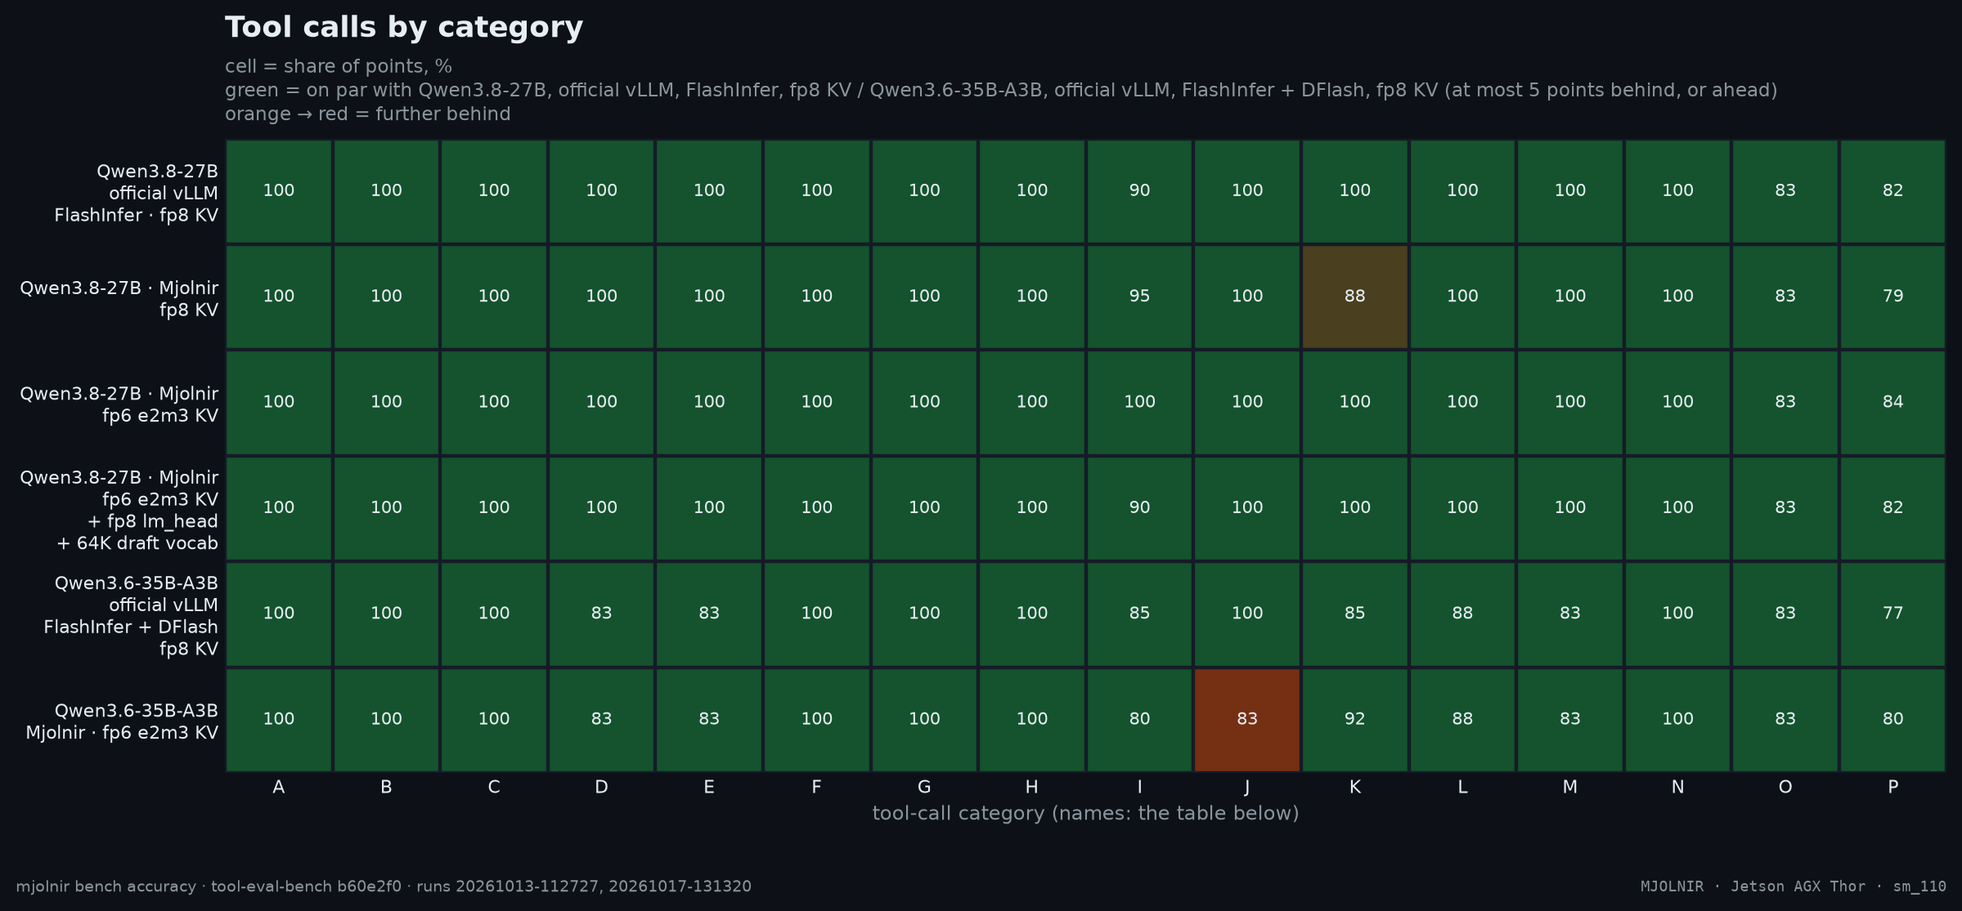
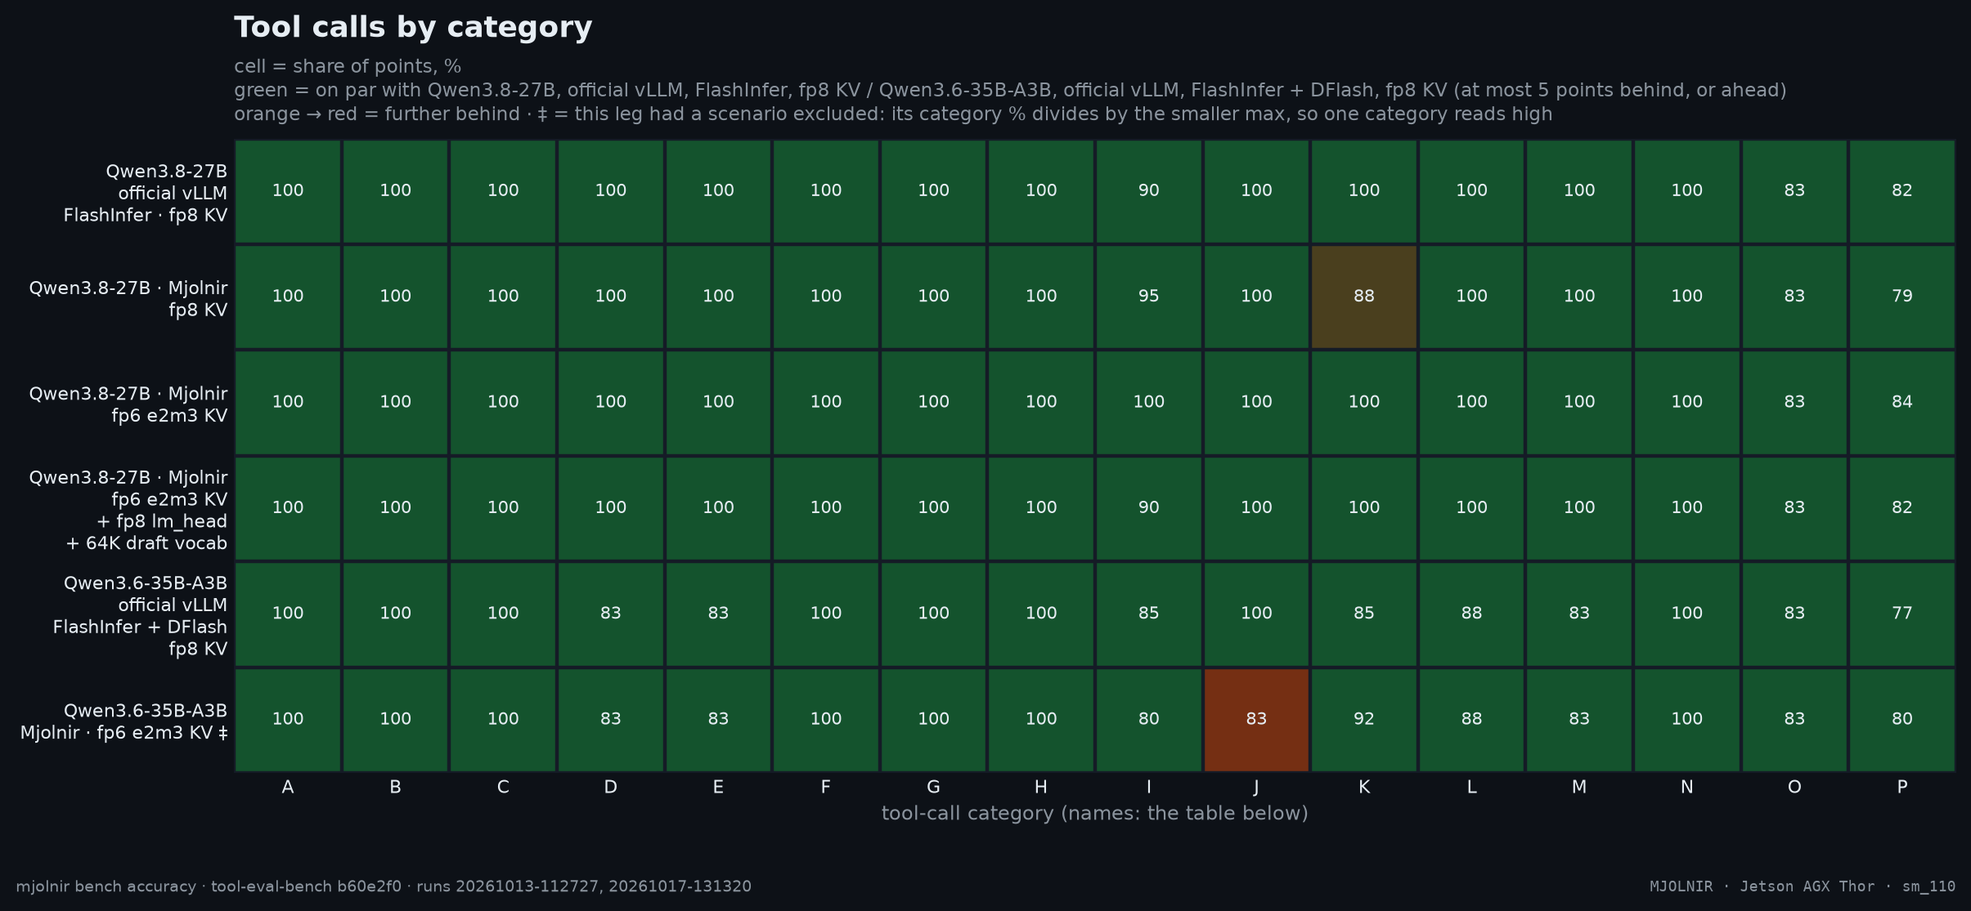
review 3 fixes: categories, delta guards, trials, compare defaults
- accuracy.delta: rescales only when a leg actually excluded scenarios
  (completion below 100%). Different maxes at full completion mean
  different scenario sets (another run's arguments, a subset): no delta,
  where it used to print a large bogus correction.
- summarize_db keeps every trial's earned/max and the worst trial's
  completion, so --trials rescales each trial on the full max; an
  exclusion in any trial counts, not only in the last one.
- Categories: a leg with an excluded scenario is marked ‡ in the heatmap
  and the page table, with a note that one category divides by the
  smaller max (per-category points are not in accuracy.json).
- Findings tally counts a scenario missing on one leg as zero, as the ‡
  delta does (committed runs record TC-45 as 0.0, so the page is unchanged).
- One accuracy.any_excluded / leg_excluded check and one set of legends
  for the page, the charts and the end-of-run table.
- bench compare: without --config, a model with no DEFAULT_QUANT runs pairs
  its newest Mjolnir config; the bench e2e hint carries --model.
- charts: stdlib imports in one block.

diff --git a/src/mjolnir-cli/mjolnir_cli/accuracy.py b/src/mjolnir-cli/mjolnir_cli/accuracy.py
@@ -162,6 +162,11 @@ def summarize_db(db: Path) -> dict:
             continue
         last = dict(items[-1])
         last.pop("score", None)
+        if all("max" in i for i in items):  # every trial's points: deltas rescale each trial exactly
+            last["earneds"], last["maxes"] = [i["earned"] for i in items], [i["max"] for i in items]
+        comps = [i["completion_rate"] for i in items if i.get("completion_rate") is not None]
+        if comps:
+            last["completion_rate"] = min(comps)  # the worst trial: an exclusion in any trial shows
         suites[name] = {"score": round(mean(scores), 2), "scores": scores, "n": len(scores), **last}
     return {
         "suites": suites,
@@ -339,36 +344,70 @@ def baselines(rows: list[dict]) -> list[dict | None]:
     return [per_model[model_of(r)] for r in rows]
 
 
+def _maxes(s: dict) -> list:
+    """Every trial's max for a suite (older records keep only the last trial's)."""
+    return list(s.get("maxes") or ([s["max"]] if s.get("max") else []))
+
+
+def _on_max(s: dict, m: float) -> float:
+    """The suite's score with every trial's points over ``m``: exact from the
+    per-trial points when recorded, else from the one run's points, else from
+    the mean % (an older averaged record, which keeps only the last max)."""
+    if s.get("earneds"):
+        return mean(e / m * 100 for e in s["earneds"])
+    if s.get("n", 1) == 1 and "earned" in s:
+        return s["earned"] / m * 100
+    return s["score"] * s["max"] / m
+
+
 def delta(r: dict, base: dict | None, name: str) -> tuple[float, bool] | None:
-    """Points ``r`` scored over ``base`` on suite ``name``, and whether the two
-    were scored on different maxes (None when ``r`` is the baseline or either
-    lacks the suite). tool-eval-bench drops a scenario its pre-run probe judged
-    the endpoint unable to serve (TC-45 when ``tool_choice=required`` looks
-    unenforced), which shrinks that leg's max, so its % divides by less. Both
-    legs are scored on the larger max instead, the excluded points counting as
-    zero: an exclusion never raises a delta."""
+    """Points ``r`` scored over ``base`` on suite ``name``, and whether an
+    excluded scenario was scored as zero (None when ``r`` is the baseline,
+    either lacks the suite, or the two measured different scenario sets).
+
+    tool-eval-bench drops a scenario it judged the endpoint unable to serve
+    (TC-45 when its ``tool_choice=required`` probe fails, a timeout, an error),
+    which shrinks that trial's max and lowers its completion rate, so its %
+    divides by less. Then every trial of both legs is scored on the largest
+    max, the excluded points counting as zero: an exclusion never raises a
+    delta. Different maxes at full completion mean different scenario sets
+    (another run's arguments), which no rescaling makes comparable."""
     if base is None or r is base:
         return None
     v, b = r.get("suites", {}).get(name) or {}, base.get("suites", {}).get(name) or {}
     if v.get("score") is None or b.get("score") is None:
         return None
-    mv, mb = v.get("max"), b.get("max")
-    if mv and mb and mv != mb:
-        m = max(mv, mb)
-
-        def on_m(s: dict) -> float:  # exact from points for one run; an average of runs has only its %
-            return s["earned"] / m * 100 if s.get("n", 1) == 1 and "earned" in s else s["score"] * s["max"] / m
-
-        return on_m(v) - on_m(b), True
+    maxes = _maxes(v) + _maxes(b)
+    if len(set(maxes)) > 1:
+        if all(x.get("completion_rate", 100.0) >= 100.0 for x in (v, b)):
+            return None
+        m = max(maxes)
+        return _on_max(v, m) - _on_max(b, m), True
     return v["score"] - b["score"], False
 
 
 def fmt_delta(d: tuple[float, bool] | None) -> str:
-    """' (+1.2)', ' (-1.4‡)' when scored on different maxes, '' for no delta."""
+    """' (+1.2)', ' (-1.4‡)' when an excluded scenario was scored as zero, '' for no delta."""
     return f" ({d[0]:+.1f}{'‡' if d[1] else ''})" if d else ""
 
 
-EXCLUDED_NOTE = "‡ = the two legs were scored on different maxes (tool-eval-bench excluded a scenario on one endpoint); the delta counts the excluded points as zero"
+def leg_excluded(r: dict, base: dict | None, names: list[str]) -> bool:
+    """Whether any of ``r``'s suite deltas scored an excluded scenario as zero."""
+    return any((d := delta(r, base, n)) and d[1] for n in names)
+
+
+def any_excluded(rows: list[dict], bases: list[dict | None], names: list[str]) -> bool:
+    return any(leg_excluded(r, b, names) for r, b in zip(rows, bases))
+
+
+EXCLUDED_NOTE = (
+    "‡ = tool-eval-bench excluded a scenario on one of the two legs; the delta scores both on the full max, "
+    "the excluded points counting as zero"
+)
+EXCLUDED_NOTE_SHORT = "‡ = a scenario was excluded on one side, scored as zero"
+CATEGORY_EXCLUDED_NOTE = (
+    "‡ = this leg had a scenario excluded: its category % divides by the smaller max, so one category reads high"
+)
 
 
 def baseline_caption(bases: list[dict | None], item_sep: str = " · ") -> str:

diff --git a/tests/cli/test_accuracy.py b/tests/cli/test_accuracy.py
@@ -255,8 +255,9 @@ def test_two_model_page_compares_within_each_model(repo):
 
 def _excluded_pair() -> tuple[dict, dict]:
     """The same-run Qwen3.6 pair: official 125/138, Mjolnir 123/136 (TC-45 excluded)."""
-    off = _leg(OFFICIAL, "NVFP4_DFLASH", 90.58, 76.79, {})
-    mj = _leg(MJ, "NVFP4_MJOLNIR_E2M3", 90.44, 80.36, {})
+    off = _leg(OFFICIAL, "NVFP4_DFLASH", 90.58, 76.79, {"H": 100})
+    mj = _leg(MJ, "NVFP4_MJOLNIR_E2M3", 90.44, 80.36, {"H": 100})
+    off["scenarios"]["TC-45"] = 2.0  # the Mjolnir leg has no TC-45: excluded
     off["suites"]["tools"].update(earned=125, max=138)
     mj["suites"]["tools"].update(earned=123, max=136, completion_rate=99.0)
     off["suites"]["hardmode"].update(earned=43, max=56)
@@ -278,6 +279,32 @@ def test_an_excluded_scenario_never_raises_the_delta():
     assert flagged2 and round(d2, 2) == round((125 - 123) / 138 * 100, 2)
 
 
+def test_different_scenario_sets_give_no_delta():
+    """Different maxes at full completion are not an exclusion (another run's
+    arguments, a subset): no rescaled delta, and no plain one either."""
+    off, mj = _excluded_pair()
+    mj["suites"]["tools"].update(earned=38, max=40, score=95.0, completion_rate=100.0)
+    assert accuracy.delta(mj, off, "tools") is None
+
+
+def test_averaged_trials_rescale_every_trial():
+    """--trials: each trial's own points over the full max, so an exclusion in
+    any trial counts, not just in the last one."""
+    off, mj = _excluded_pair()
+    # trials 1-2 excluded TC-45 (max 136), trial 3 did not (max 138)
+    mj["suites"]["tools"].update(
+        score=round((123 / 136 + 123 / 136 + 125 / 138) / 3 * 100, 2),
+        n=3,
+        earned=125,
+        max=138,
+        earneds=[123, 123, 125],
+        maxes=[136, 136, 138],
+        completion_rate=99.0,
+    )
+    d, flagged = accuracy.delta(mj, off, "tools")
+    assert flagged and round(d, 3) == round(((123 + 123 + 125) / 3 - 125) / 138 * 100, 3)
+
+
 def test_print_accuracy_marks_an_excluded_scenario(capsys):
     from mjolnir_cli import cli
 
@@ -285,7 +312,7 @@ def test_print_accuracy_marks_an_excluded_scenario(capsys):
     cli._print_accuracy({"run_id": "r", "args": ["run"], "legs": [off, mj]})
     out = capsys.readouterr().out
     assert "(-1.4‡)" in out and "(-0.1)" not in out
-    assert "counts the excluded points as zero" in out
+    assert "excluded points counting as zero" in out
 
 
 def test_page_marks_an_excluded_scenario(repo):
@@ -298,7 +325,9 @@ def test_page_marks_an_excluded_scenario(repo):
     page = (repo / "docs" / "kernel" / "accuracy.md").read_text()
     assert "90.4 (-1.4‡)" in page and "80.4 (+3.6)" in page
     assert "Tool calls -1.4‡" in page
-    assert "counts the excluded points as zero" in page
+    assert "excluded points counting as zero" in page
+    assert "excluded TC-45 counted as zero" in page  # the tally counts what the ‡ delta counts
+    assert "Mjolnir · bf16 KV ‡ |" in page and "its category % divides by the smaller max" in page
 
 
 def test_accuracy_page_pending_without_runs(repo):

diff --git a/src/mjolnir-cli/mjolnir_cli/readme.py b/src/mjolnir-cli/mjolnir_cli/readme.py
@@ -844,7 +844,7 @@ def _accuracy_context(ctx: ReadmeContext, rows: list[dict]) -> None:
     bases = accuracy.baselines(rows)
     names = accuracy.suites_in(rows)
     ctx.accuracy_baseline = accuracy.baseline_caption(bases)
-    if any((d := accuracy.delta(r, base, n)) and d[1] for r, base in zip(rows, bases) for n in names):
+    if accuracy.any_excluded(rows, bases, names):
         ctx.accuracy_excluded_note = accuracy.EXCLUDED_NOTE
     ctx.accuracy_runs = sorted({v["run_id"] for r in rows for v in r["runs"].values()})
     args = {}
@@ -874,7 +874,8 @@ def _accuracy_context(ctx: ReadmeContext, rows: list[dict]) -> None:
     cats = sorted({c for r in rows for c in r.get("categories", {})})
     if cats:
         labels = {c: next(r["categories"][c]["label"] for r in rows if c in r.get("categories", {})) for c in cats}
-        chead = ["category", *[r["label"] for r in rows]]
+        marked = [accuracy.leg_excluded(r, b, names) for r, b in zip(rows, bases)]
+        chead = ["category", *[r["label"] + (" ‡" if m else "") for r, m in zip(rows, marked)]]
         cbody = []
         for c in cats:
             cbody.append(
@@ -882,6 +883,8 @@ def _accuracy_context(ctx: ReadmeContext, rows: list[dict]) -> None:
                 + [f"{r['categories'][c]['percent']:.0f}" if c in r.get("categories", {}) else "—" for r in rows]
             )
         ctx.accuracy_categories = _table(chead, cbody)
+        if any(marked):
+            ctx.accuracy_categories += f"\n\n<sub>{accuracy.CATEGORY_EXCLUDED_NOTE}.</sub>"
 
     for r, base in zip(rows, bases):
         if base is None or r is base:
@@ -894,10 +897,16 @@ def _accuracy_context(ctx: ReadmeContext, rows: list[dict]) -> None:
         if deltas:
             changed = []
             if r.get("scenarios") and base.get("scenarios"):
-                common = r["scenarios"].keys() & base["scenarios"].keys()
-                worse = sum(1 for k in common if r["scenarios"][k] < base["scenarios"][k])
-                better = sum(1 for k in common if r["scenarios"][k] > base["scenarios"][k])
-                changed = [f"{worse} scenarios scored lower, {better} higher of {len(common)}"]
+                # a scenario one leg excluded counts as zero there, as in the ‡ delta
+                rs, bs = r["scenarios"], base["scenarios"]
+                every = rs.keys() | bs.keys()
+                worse = sum(1 for k in every if rs.get(k, 0.0) < bs.get(k, 0.0))
+                better = sum(1 for k in every if rs.get(k, 0.0) > bs.get(k, 0.0))
+                gone = sorted(every - (rs.keys() & bs.keys()))
+                changed = [
+                    f"{worse} scenarios scored lower, {better} higher of {len(every)}"
+                    + (f"; excluded {', '.join(gone)} counted as zero" if gone else "")
+                ]
             ctx.accuracy_findings.append(
                 f"**{r['label']}** vs {base['label']}: {', '.join(deltas)} points"
                 + (f" ({changed[0]})" if changed else "")

diff --git a/src/mjolnir-cli/mjolnir_cli/charts.py b/src/mjolnir-cli/mjolnir_cli/charts.py
@@ -17,10 +17,9 @@ import re
 
 import json
 import math
+from itertools import groupby
 from pathlib import Path
 from typing import Callable
-
-from itertools import groupby
 
 from mjolnir_cli import theme
 from mjolnir_cli.config import DEFAULT_MODEL, RepoLayout, model_of, model_short
@@ -1365,11 +1364,7 @@ def chart_accuracy_suites(layout: RepoLayout, mode: Mode):
         "tool-eval-bench over each config's OpenAI endpoint · dashed = "
         + (accuracy.baseline_caption(bases, ", ") or "baseline")
         + " · (±) = points vs it"
-        + (
-            " · ‡ = a scenario was excluded on one side, scored as zero"
-            if any((d := accuracy.delta(r, b, s)) and d[1] for r, b in zip(rows, bases) for s in names)
-            else ""
-        ),
+        + (f" · {accuracy.EXCLUDED_NOTE_SHORT}" if accuracy.any_excluded(rows, bases, names) else ""),
     )
     _accuracy_footer(fig, mode, rows)
     return fig
@@ -1387,7 +1382,7 @@ def chart_accuracy_categories(layout: RepoLayout, mode: Mode):
     better), then orange, then red the more points it loses."""
     from mjolnir_cli import accuracy
 
-    rows, bases, _ = _accuracy_rows(layout)
+    rows, bases, names = _accuracy_rows(layout)
     pairs = [(r, b) for r, b in zip(rows, bases) if r.get("categories")]
     if not pairs:
         return None
@@ -1431,7 +1426,10 @@ def chart_accuracy_categories(layout: RepoLayout, mode: Mode):
     ax.set_xticks(range(len(cats)))
     ax.set_xticklabels(cats, color=mode.text)
     ax.set_yticks(range(len(rows)))
-    ax.set_yticklabels([theme.wrap(r["label"], 24) for r in rows], color=mode.text)
+    marked = [accuracy.leg_excluded(r, b, names) for r, b in zip(rows, bases)]
+    ax.set_yticklabels(
+        [theme.wrap(r["label"] + (" ‡" if m else ""), 24) for r, m in zip(rows, marked)], color=mode.text
+    )
     ax.set_xlabel("tool-call category (names: the table below)")
     theme.title(
         ax,
@@ -1439,7 +1437,8 @@ def chart_accuracy_categories(layout: RepoLayout, mode: Mode):
         "Tool calls by category",
         "cell = share of points, % · green = on par with "
         + (accuracy.baseline_caption(bases, ", ") or "the first row")
-        + f" (at most {ACC_PAR_POINTS:g} points behind, or ahead) · orange → red = further behind",
+        + f" (at most {ACC_PAR_POINTS:g} points behind, or ahead) · orange → red = further behind"
+        + (f" · {accuracy.CATEGORY_EXCLUDED_NOTE}" if any(marked) else ""),
     )
     _accuracy_footer(fig, mode, rows)
     return fig

diff --git a/src/mjolnir-cli/mjolnir_cli/e2e.py b/src/mjolnir-cli/mjolnir_cli/e2e.py
@@ -110,7 +110,9 @@ def latest_pair(
 ) -> tuple[dict | None, dict | None]:
     """(official, mjolnir): each side's runs merged cell by cell, newest run
     first (:func:`_merge`) — a stock config on the official image, and the
-    Mjolnir backend config (default ``DEFAULT_QUANT``) on a Mjolnir image.
+    Mjolnir backend config on a Mjolnir image: ``mjolnir_config``, else
+    ``DEFAULT_QUANT`` when the model has runs of it, else the model's newest
+    Mjolnir-image config (``DEFAULT_QUANT`` exists only for the default model).
 
     The official side is ``official_config`` (default ``BASELINE_QUANT``,
     native FlashInfer) when the history has it, else the newest official
@@ -119,13 +121,19 @@ def latest_pair(
 
     Both sides are runs of one ``model`` (default ``DEFAULT_MODEL``): another
     model's run under the same config name is never paired with them."""
-    want = mjolnir_config or DEFAULT_QUANT
     model = model or DEFAULT_MODEL
     base = official_config or BASELINE_QUANT
+    recs = [r for r in load_records(history_file) if r.get("cells") and model_of(r) == model]
+    want = mjolnir_config
+    if want is None:
+        mine = [r for r in recs if is_mjolnir(r)]
+        want = (
+            DEFAULT_QUANT
+            if any(r.get("config") == DEFAULT_QUANT for r in mine) or not mine
+            else max(mine, key=lambda r: r.get("epoch", 0)).get("config")
+        )
     offs, mjs = [], []
-    for r in load_records(history_file):
-        if not r.get("cells") or model_of(r) != model:
-            continue
+    for r in recs:
         if is_official(r) and r.get("config") != want:
             offs.append(r)
         elif is_mjolnir(r) and r.get("config") == want:

diff --git a/src/mjolnir-cli/mjolnir_cli/cli.py b/src/mjolnir-cli/mjolnir_cli/cli.py
@@ -1134,17 +1134,15 @@ def _print_accuracy(doc: dict) -> None:
     for n in suites:
         t.add_column(f"{accuracy.suite_label(n)} %", justify="right")
     t.add_column("completion", justify="right")
-    flagged = False
-    for r, base in zip(rows, accuracy.baselines(rows)):  # a run may hold several models: each vs its own
+    bases = accuracy.baselines(rows)  # a run may hold several models: each vs its own
+    for r, base in zip(rows, bases):
         cells = []
         for n in suites:
             v = (r.get("suites", {}).get(n) or {}).get("score")
-            d = accuracy.delta(r, base, n)
-            flagged |= bool(d and d[1])
-            cells.append("—" if v is None else f"{v:.1f}{accuracy.fmt_delta(d)}")
+            cells.append("—" if v is None else f"{v:.1f}{accuracy.fmt_delta(accuracy.delta(r, base, n))}")
         comp = [x.get("completion_rate") for x in r.get("suites", {}).values() if x.get("completion_rate") is not None]
         t.add_row(r.get("label", r.get("id", "")), *cells, f"{min(comp):.0f}%" if comp else "—")
-    if flagged:
+    if accuracy.any_excluded(rows, bases, suites):
         t.caption = accuracy.EXCLUDED_NOTE
     Console().print(t)
 
@@ -1355,7 +1353,7 @@ def bench_e2e(
                 continue
             twin = next((o for o in offs if o.split("_")[-1] == q.split("_")[-1]), None)
             typer.echo(
-                f"  mjolnir bench compare --config {q}"
+                f"  mjolnir bench compare --model {s.model} --config {q}"
                 + (f"   |   --official-config {twin} --config {q}" if twin else "")
             )
     _rerender(layout)

diff --git a/tests/cli/test_e2e.py b/tests/cli/test_e2e.py
@@ -315,3 +315,17 @@ def test_a_run_without_model_is_never_the_default_models(tmp_path):
     h.write_text("".join(json.dumps(r) + "\n" for r in rows))
     off, mj = e2e.latest_pair(h, "NVFP4_MJOLNIR_E2M3")
     assert off["epoch"] == 1 and mj is None
+
+
+def test_compare_defaults_to_the_models_own_mjolnir_config(tmp_path):
+    """Without --config, a model that has no DEFAULT_QUANT runs pairs its newest
+    Mjolnir-image config instead of reporting no Mjolnir run."""
+    h = tmp_path / "history.jsonl"
+    q36 = "nvidia/Qwen3.6-35B-A3B"
+    rows = [
+        _rec("vllm/vllm-openai:v0.31.0-ubuntu2404", "NVFP4_DFLASH", 1, [_cell(1, 0, 80, 0, 50)], model=q36),
+        _rec("narandill/mjolnir-vllm:v0.31.0", "NVFP4_MJOLNIR_E2M3", 2, [_cell(1, 0, 130, 0, 40)], model=q36),
+    ]
+    h.write_text("".join(json.dumps(r) + "\n" for r in rows))
+    off, mj = e2e.latest_pair(h, model=q36)
+    assert off["config"] == "NVFP4_DFLASH" and mj["config"] == "NVFP4_MJOLNIR_E2M3"

diff --git a/docs/kernel/accuracy.md b/docs/kernel/accuracy.md
@@ -48,7 +48,7 @@ Sampling is greedy (temperature 0) with a fixed seed, so two configs see the sam
 
 </details><br />
 
-<sub>Score in %, (±) = points vs the bold row of the same model (**Qwen3.8-27B · official vLLM · FlashInfer · fp8 KV / Qwen3.6-35B-A3B · official vLLM · FlashInfer + DFlash · fp8 KV**), never across models; ‡ = the two legs were scored on different maxes (tool-eval-bench excluded a scenario on one endpoint); the delta counts the excluded points as zero; n = averaged runs (`--trials`). Each row takes every suite from the newest run that measured it. tool-eval-bench arguments: Tool calls: `run --hardmode --seed 42 --timeout 600`; Hard Mode: `run --hardmode --seed 42 --timeout 600`. Rendered from [`benchmarks/raw/accuracy/20261013-112727/accuracy.json`](../../benchmarks/raw/accuracy/20261013-112727/accuracy.json), [`benchmarks/raw/accuracy/20261017-131320/accuracy.json`](../../benchmarks/raw/accuracy/20261017-131320/accuracy.json).</sub>
+<sub>Score in %, (±) = points vs the bold row of the same model (**Qwen3.8-27B · official vLLM · FlashInfer · fp8 KV / Qwen3.6-35B-A3B · official vLLM · FlashInfer + DFlash · fp8 KV**), never across models; ‡ = tool-eval-bench excluded a scenario on one of the two legs; the delta scores both on the full max, the excluded points counting as zero; n = averaged runs (`--trials`). Each row takes every suite from the newest run that measured it. tool-eval-bench arguments: Tool calls: `run --hardmode --seed 42 --timeout 600`; Hard Mode: `run --hardmode --seed 42 --timeout 600`. Rendered from [`benchmarks/raw/accuracy/20261013-112727/accuracy.json`](../../benchmarks/raw/accuracy/20261013-112727/accuracy.json), [`benchmarks/raw/accuracy/20261017-131320/accuracy.json`](../../benchmarks/raw/accuracy/20261017-131320/accuracy.json).</sub>
 
 ### By tool-call category
 
@@ -57,7 +57,7 @@ Sampling is greedy (temperature 0) with a fixed seed, so two configs see the sam
   <img src="../../assets/benchmarks/accuracy-categories.png" alt="Tool-call categories per serving config" width="100%">
 </picture>
 
-| category | Qwen3.8-27B · official vLLM · FlashInfer · fp8 KV | Qwen3.8-27B · Mjolnir · fp8 KV | Qwen3.8-27B · Mjolnir · fp6 e2m3 KV | Qwen3.8-27B · Mjolnir · fp6 e2m3 KV + fp8 lm_head + 64K draft vocab | Qwen3.6-35B-A3B · official vLLM · FlashInfer + DFlash · fp8 KV | Qwen3.6-35B-A3B · Mjolnir · fp6 e2m3 KV |
+| category | Qwen3.8-27B · official vLLM · FlashInfer · fp8 KV | Qwen3.8-27B · Mjolnir · fp8 KV | Qwen3.8-27B · Mjolnir · fp6 e2m3 KV | Qwen3.8-27B · Mjolnir · fp6 e2m3 KV + fp8 lm_head + 64K draft vocab | Qwen3.6-35B-A3B · official vLLM · FlashInfer + DFlash · fp8 KV | Qwen3.6-35B-A3B · Mjolnir · fp6 e2m3 KV ‡ |
 |---|--:|--:|--:|--:|--:|--:|
 | A · Tool Selection | 100 | 100 | 100 | 100 | 100 | 100 |
 | B · Parameter Precision | 100 | 100 | 100 | 100 | 100 | 100 |
@@ -75,6 +75,8 @@ Sampling is greedy (temperature 0) with a fixed seed, so two configs see the sam
 | N · Creative Composition | 100 | 100 | 100 | 100 | 100 | 100 |
 | O · Structured Output | 83 | 83 | 83 | 83 | 83 | 83 |
 | P · Hard Mode | 82 | 79 | 84 | 82 | 77 | 80 |
+
+<sub>‡ = this leg had a scenario excluded: its category % divides by the smaller max, so one category reads high.</sub>
 
 <sub>Share of points per category, %. A category has 2–10 scenarios: one scenario moving from pass to partial shifts it by 5–25 points — read single cells as anecdotes, the totals as the result.</sub>
 
